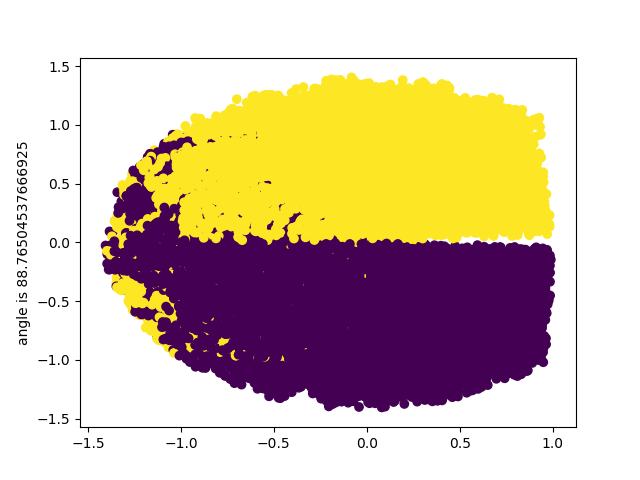
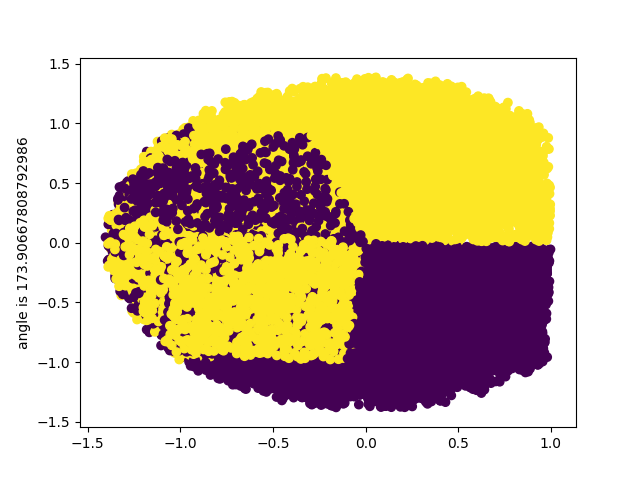
Resolved the issue related to uninitialised variables

diff --git a/transfer_learning/network_classes.py b/transfer_learning/network_classes.py
@@ -51,8 +51,9 @@ class TaskEmbeddingNetworkNaive:
             self.losses = tf.reduce_mean(tf.nn.sparse_softmax_cross_entropy_with_logits(labels=self.output,
                                                                                         logits=self.fc_fnl))
             self.weight_norm = tf.reduce_sum(self._weight_decay * tf.stack(
-                [tf.nn.l2_loss(i) for i in tf.get_collection('wd_variables')]), name='weight_norm')
+                [tf.nn.l2_loss(i.initialized_value()) for i in tf.get_collection('wd_variables')]), name='weight_norm')
             self.total_loss = tf.add(self.losses, self.weight_norm)
+            # self.total_loss = self.losses
             optimizer = tf.train.AdamOptimizer(self._learning_rate).minimize(self.total_loss, global_step=global_step)
             self.accuracy = tf.reduce_mean(tf.cast(tf.equal(self.pred, self.output), tf.float32))
 
@@ -61,7 +62,7 @@ class TaskEmbeddingNetworkNaive:
             sess.run(tf.global_variables_initializer())  # Initializing the variables
             # Training for the desired number of epochs
             for step in range(num_cycles - global_step.eval()):
-                _, total_loss, accuracy = sess.run([self.losses, self.accuracy], feed_dict={
+                _, total_loss, accuracy = sess.run([optimizer, self.losses, self.accuracy], feed_dict={
                     self.task_batch: task_data, self.input_batch: batch_data, self.output: y})
                 task_data, batch_data, y = next(iterator)
                 if step % num_samples == 0:

diff --git a/transfer_learning/layer_utils.py b/transfer_learning/layer_utils.py
@@ -6,7 +6,7 @@ def fc_layer_naive(input_tensor,
                    out_dim,
                    name,
                    transpose=False,
-                   collection=['wd_variables'],
+                   collection='wd_variables',
                    non_linear_fn=tf.nn.relu,
                    weight_init=tf.truncated_normal_initializer(stddev=0.01),
                    bias_init=tf.constant_initializer(0.1)):
@@ -33,11 +33,12 @@ def fc_layer_naive(input_tensor,
             _, in_dim = input_dims
             flat_input = input_tensor
 
-        w = tf.get_variable('weights', shape=[in_dim, out_dim], initializer=weight_init,
-                            collections=collection)
+        # w = tf.get_variable('weights', shape=[in_dim, out_dim], initializer=weight_init,
+        #                     collections=collection)
+        w = tf.get_variable('weights', shape=[in_dim, out_dim], initializer=weight_init)
         b = tf.get_variable('bias', shape=[out_dim], initializer=bias_init)
         fc1 = tf.add(tf.matmul(flat_input, w), b, name=scope.name)
-
+        tf.add_to_collection(collection, w)
         if non_linear_fn is not None:
             fc1 = non_linear_fn(fc1)
 
